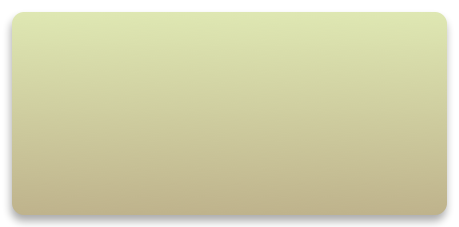
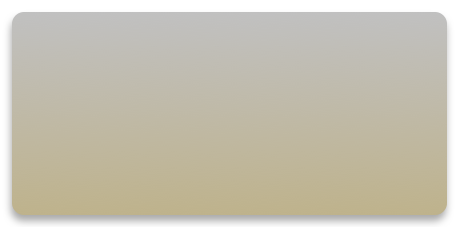
update design

diff --git a/osx_dashcode_widget.dcproj/project/widget.wdgt/main.html b/osx_dashcode_widget.dcproj/project/widget.wdgt/main.html
@@ -13,7 +13,7 @@
 </head>
 <body onload="load();" apple-part="com.apple.Dashcode.part.StackLayout">
     <div id="front">
-        <img id="frontImg" src="Parts/Images/front.png" alt="" apple-locked="true" apple-part="com.apple.Dashcode.part.frontimage" apple-style="image-theme: 1; image-shape: 3; image-opacity: 1.00; image-top-color: 0.857384585,0.875,0.647891092,1; image-bottom-color: 0.688306726,0.637232602,0.484010232,1; image-radius: 12,12,12,12; image-border: 0; image-border-color: 0.5294,0.5294,0.5294,1; image-border-width: 1; shine-on: 0; shine-strength: 0.00; shine-alpha-level: 0.67; shine-height: 0.50; glass-arc-height: 0.06; embossed-on: 0; embossed-depth: 1; embossed-shadow: 0.68; embossed-highlight: 0.3; shadow-include-shadow: 1; shadow-offset: -1.00,-6.00; shadow-color: 0,0,0,0.3333;">
+        <div id="frontImg"></div>
         <div id="example1" apple-part="com.apple.Dashcode.part.roundedrectangleshape" class="apple-no-children" apple-style="image-theme: 3; image-shape: 3; image-button-type: 3; image-opacity: 1.00; image-top-color: 0.993975904,0.987951807,1,1; image-bottom-color: 0.960815888,0.972826087,0.972826087,1; image-radius: 0,0,0,0; image-border: 0; image-border-color: 0,0,0,0.16; image-border-width: 1; shine-on: 0; shine-strength: 0.00; shine-alpha-level: 0.67; shine-height: 0.50; glass-arc-height: 0.06; embossed-on: 0; embossed-depth: 1; embossed-shadow: 0.68; embossed-highlight: 0.3; shadow-include-shadow: 0;"></div>
         <div id="example2" apple-part="com.apple.Dashcode.part.roundedrectangleshape" class="apple-no-children" apple-style="image-theme: 3; image-shape: 3; image-button-type: 3; image-opacity: 1.00; image-top-color: 1,0,0,1; image-bottom-color: 0.960815888,0.972826087,0.972826087,1; image-radius: 0,0,0,0; image-border: 0; image-border-color: 0,0,0,0.16; image-border-width: 1; shine-on: 0; shine-strength: 0.00; shine-alpha-level: 0.67; shine-height: 0.50; glass-arc-height: 0.06; embossed-on: 0; embossed-depth: 1; embossed-shadow: 0.68; embossed-highlight: 0.3; shadow-include-shadow: 0;"></div>
         <div id="example-text2" apple-part="com.apple.Dashcode.part.text" class="apple-text apple-no-children" apple-default-image-visibility="hidden" apple-text-overflow="ellipsis"></div>
@@ -24,6 +24,8 @@
         <div id="text3" apple-part="com.apple.Dashcode.part.text" class="apple-text apple-no-children" apple-default-image-visibility="hidden" apple-text-overflow="ellipsis"></div>
         <div id="result" apple-part="com.apple.Dashcode.part.text" class="apple-text apple-no-children" apple-default-image-visibility="hidden" apple-text-overflow="ellipsis"></div>
         <div id="infobutton" apple-part="com.apple.Dashcode.part.infobutton" class="info apple-no-children" apple-default-image-visibility="hidden"></div>
+        <div id="text5" apple-part="com.apple.Dashcode.part.text" class="apple-text apple-no-children" apple-default-image-visibility="hidden" apple-text-overflow="ellipsis" apple-style="part-height-dependent: true;part-width-dependent: true;"></div>
+        <div id="text6" apple-part="com.apple.Dashcode.part.text" class="apple-text apple-no-children" apple-default-image-visibility="hidden" apple-text-overflow="ellipsis" apple-style="part-height-dependent: true;part-width-dependent: true;"></div>
     </div>
     <div id="back">
         <img id="backImg" src="Parts/Images/back.png" alt="" apple-locked="true" apple-part="com.apple.Dashcode.part.backimage" apple-style=" image-radius: 12,12,12,12; image-border: 1; image-border-color: 0.1500,0.1500,0.1500; image-border-width: 3; shadow-include-shadow: 1; shadow-blur: 9.00; shadow-offset: -1.00,-6.00; shadow-color: 0.0000,0.0000,0.0000,0.3333;">

diff --git a/osx_dashcode_widget.dcproj/project/widget.wdgt/main.css b/osx_dashcode_widget.dcproj/project/widget.wdgt/main.css
@@ -43,12 +43,19 @@ body {
 #frontImg {
     position: absolute;
     display: block;
-    top: 0px;
-    left: 0px;
-    right: 0px;
+    top: 10px;
+    left: 10px;
+    right: 10px;
     width: auto;
-    bottom: 1px;
+    bottom: 10px;
     height: auto;
+    background-image: -webkit-gradient(linear, 0% 100%, 0% 0%, color-stop(0.31, rgb(218, 218, 218)), color-stop(0.83, rgb(237, 237, 237)));
+    border-radius: 6px;
+    border-top-left-radius: 6px;
+    border-top-right-radius: 6px;
+    border-bottom-right-radius: 6px;
+    border-bottom-left-radius: 6px;
+    box-shadow: rgba(0, 0, 0, 0.292969) 0px 5px 10px;
 }
 
 #example-text2 {
@@ -149,11 +156,12 @@ body {
     height: 18px;
     top: 28px;
     font-family: Arial;
-    font-size: 13px;
+    font-size: 15px;
     left: 30px;
     right: 241px;
     width: auto;
     text-align: center;
+    color: rgb(138, 138, 138);
 }
 
 .selected #text2 {
@@ -168,11 +176,12 @@ body {
     height: 18px;
     top: 28px;
     font-family: Arial;
-    font-size: 13px;
+    font-size: 15px;
     left: 230px;
     right: 30px;
     width: auto;
     text-align: center;
+    color: rgb(138, 138, 138);
 }
 
 .selected #text3 {
@@ -283,4 +292,40 @@ body {
     margin-top: 0px;
     left: 429px;
     top: 197px;
+}
+
+#text5 {
+    font-size: 15px;
+    font-family: 'Lucida Grande', Arial, sans-serif;
+    text-overflow: ellipsis;
+    overflow: hidden;
+    position: absolute;
+    margin-top: 0px;
+    left: 37px;
+    color: rgb(138, 138, 138);
+    top: 56px;
+    width: auto;
+    height: auto;
+}
+
+.selected #text5 {
+    color: white;
+}
+
+#text6 {
+    font-size: 15px;
+    font-family: 'Lucida Grande', Arial, sans-serif;
+    text-overflow: ellipsis;
+    overflow: hidden;
+    position: absolute;
+    margin-top: 0px;
+    color: rgb(138, 138, 138);
+    top: 56px;
+    left: 238px;
+    width: auto;
+    height: auto;
+}
+
+.selected #text6 {
+    color: white;
 }

diff --git a/osx_dashcode_widget.dcproj/project/widget.wdgt/Parts/setup.js b/osx_dashcode_widget.dcproj/project/widget.wdgt/Parts/setup.js
@@ -14,10 +14,13 @@ var dashcodePartSpecs = {
     "result": { "view": "DC.Text" },
     "text": { "text": "© 2012 Alexey Androsov, Sergey Gorobtsov", "view": "DC.Text" },
     "text1": { "text": "Licenced under GPLv3", "view": "DC.Text" },
-    "text2": { "text": "Текст #", "view": "DC.Text" },
-    "text3": { "text": "Фон #", "view": "DC.Text" },
-    "text4": { "text": "https://github.com/doochik/wcag-color-contrast", "view": "DC.Text" }
+    "text2": { "text": "Текст", "view": "DC.Text" },
+    "text3": { "text": "Фон", "view": "DC.Text" },
+    "text4": { "text": "https://github.com/doochik/wcag-color-contrast", "view": "DC.Text" },
+    "text5": { "text": "#", "view": "DC.Text" },
+    "text6": { "text": "#", "view": "DC.Text" }
 };
+
 
 
 

diff --git a/osx_dashcode_widget.dcproj/project/widget.wdgt/main.js b/osx_dashcode_widget.dcproj/project/widget.wdgt/main.js
@@ -162,10 +162,10 @@ function calcRatio() {
         }
 
         document.getElementById('example1').style.backgroundColor = '#' + rgb2;
-        document.getElementById('example1').style.border = '1px solid #' + rgb1;
+        document.getElementById('example1').style.border = '1px solid #c6c6c6';
 
         document.getElementById('example2').style.backgroundColor = '#' + rgb2;
-        document.getElementById('example2').style.border = '1px solid #' + rgb1;
+        document.getElementById('example2').style.border = '1px solid #c6c6c6';
 
     }
 }
